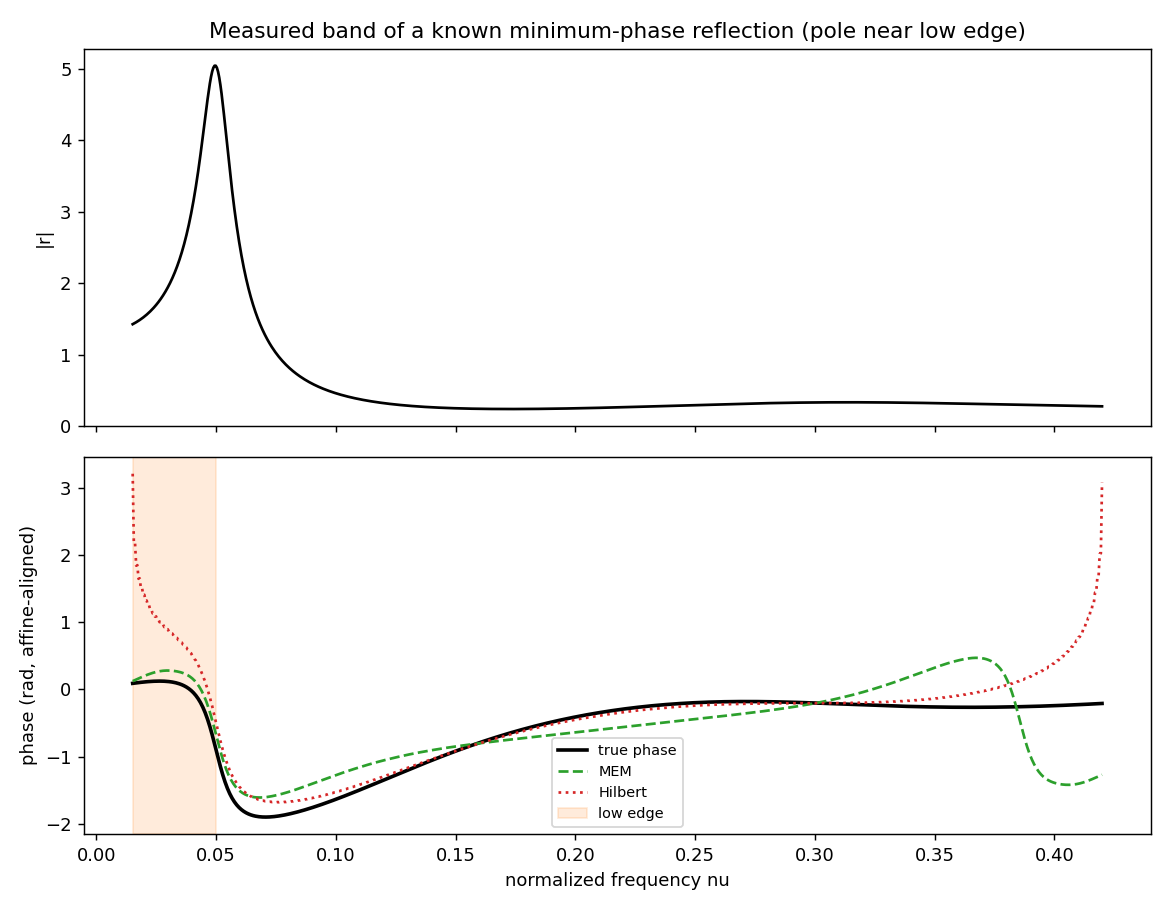
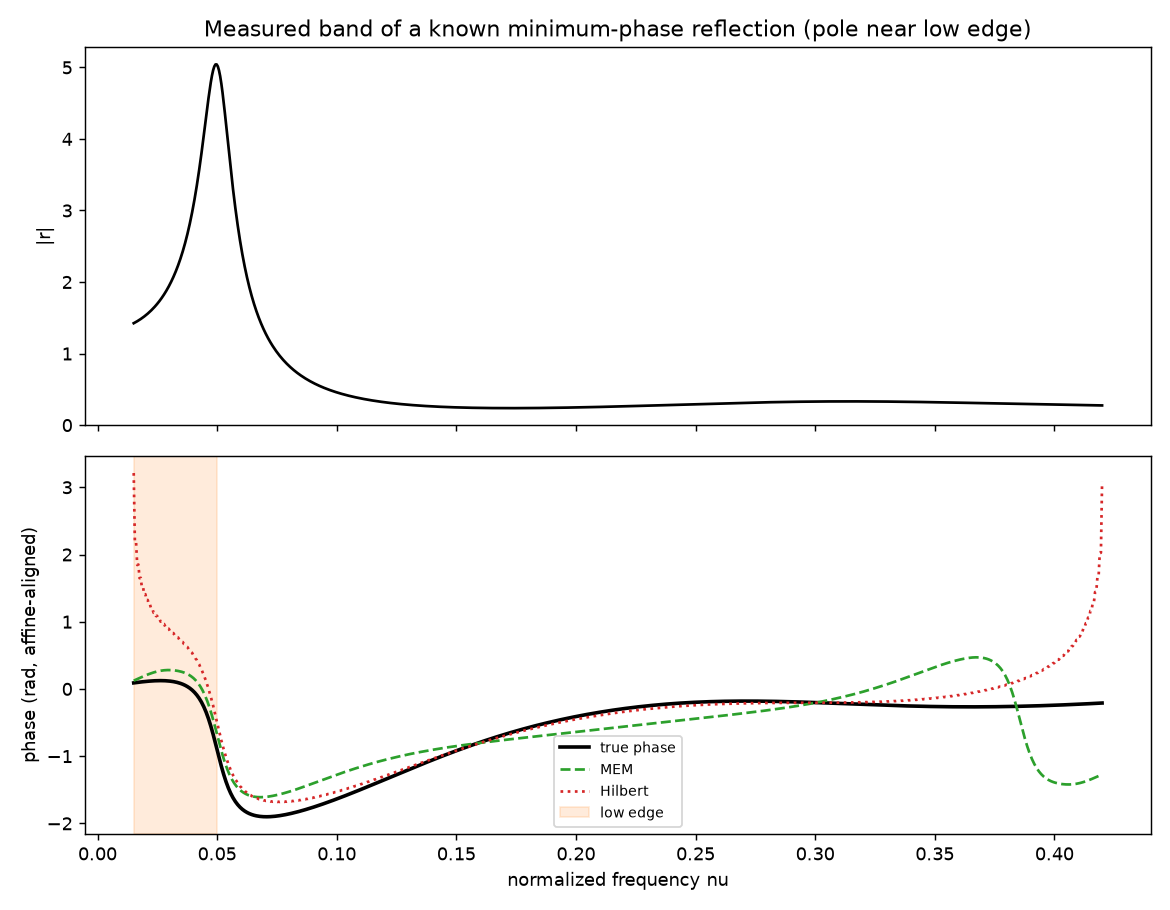
chore: carry over the Windows -> Linux migration state
Uncommitted working-tree changes predating this session, committed so they stop
riding along untracked:

- .gitignore: `thz_core/` -> `thz_core`. The trailing slash matches directories
  only, so it did not ignore the symlink that now points at the sibling thz-core
  checkout. Without this the symlink shows up as an untracked file.
- TODO.md: the write-up of the thz-core recovery (2460 insertions over 23 files
  found in the gitignored nested working tree on the Windows machine).
- requirements.txt: reconstructed by AST-scanning the imports; the repo had none.
- run_me_reflection_single.py: data_dir repointed at the 2026-08-21 CNT session.
- a regenerated MEM phase validation figure.

Claude-Session: https://claude.ai/code/session_01GHdY6X8Khyq53xsqL6x4uA

diff --git a/run_me_reflection_single.py b/run_me_reflection_single.py
@@ -30,7 +30,7 @@ data_dir = r'C:\Users\Samuel\Data\THz\Sam\reflection_testing\2026-06-25_misalign
 data_dir = r'C:\Users\Samuel\Data\THz\Sam\reflection_testing\2026-06-24_refl_testing\cone_tests'
 data_dir = r'C:\Users\Samuel\Data\THz\diagnostics\2026-06-30_ref_testing'
 data_dir = r'C:\Users\Samuel\Data\THz\Sam\2026-07-1_CNT\export'
-data_dir = r'C:\Users\Samuel\Data\THz\Sam\2026-07-03_silicon\export'
+data_dir = r'C:\Users\Samuel\Data\THz\Sam\2026-08-21_CNT-paper-doped_3'
 
 
 # ── Configuration ───────────────────────────────────────

diff --git a/TODO.md b/TODO.md
@@ -1,5 +1,56 @@
 # TODO
 
+## Migration (2026-08-24, Windows → Linux workstation) — RESOLVED
+
+- [x] **Recover the missing thz-core functions.** `thz_analysis` called 14
+  symbols absent from the `thz-core` checkout, leaving the suite at
+  **128 passed / 32 failed**. Found and merged the same day
+  (thz-core `ed8626b`, merging `recover/nested-thz-core-2026-08`).
+
+  **Where it was:** the old Windows machine kept the live thz_core working tree
+  nested at `matchbook\thz\thz_core\`, which was listed in thz-analysis's
+  `.gitignore`. So the code was invisible to the repo that contained it, and
+  had never been committed to the repo it belonged to. It was not lost — just
+  in a directory that no `git status` anywhere would ever mention.
+
+  **What came back:** 2460 insertions over 23 files — new `window.py` (319) and
+  `reflection_gap.py` (188); `transfer.py` +271 (`self_referenced_transfer`,
+  `remove_phase_offset`); `invert.py` +208 (incl. the
+  `config['invert']['min_one_plus_r']` singularity floor); `invert_grid.py`,
+  `kramers_kronig.py`, `multilayer.py`, `fit_gui.py`, `fitting/`; and tests
+  `test_window.py`, `test_remove_phase_offset.py`, `test_invert_grid.py`,
+  `test_multilayer.py`.
+
+  **Verification:** thz-core 166 → **200 passed**; thz_analysis 128/32 →
+  **160 passed, 0 failed**. No source was patched to make anything pass — the
+  32 failures resolved purely by the functions existing. The recovery commit
+  deletes no file develop had, and every test-file change is additive.
+
+  **Two cleanups it needed** (thz-core `9b36570`): the capture was made with
+  `git add -A` on a live tree, so it swept in 33 tracked `.pyc` files, and it
+  resurrected `tests/test_segment_and_fresnel.py` — deliberately deleted in
+  `ecab2d9` when it was split into `test_fresnel.py`. That file imports
+  `segment_waveform`, which no longer exists, and broke collection entirely.
+
+  **The lesson worth keeping:** a gitignored directory that is itself a working
+  copy is invisible to every safety net git provides. Nothing warns you, and
+  `git status` in the parent repo stays clean while months of work sit
+  uncommitted. On this machine the equivalent path is a *symlink*
+  (`thz_analysis/thz_core -> ../thz-core`), so there is exactly one checkout and
+  the same trap cannot recur — but the general rule stands: never let a
+  gitignored path hold the only copy of anything.
+
+## Testing hygiene
+
+- [ ] **Tests must not mutate tracked repo artifacts.** Running `pytest tests`
+  rewrites the tracked file
+  `explorations/air_gap_cnt_reflection/mem_phase_validation.png` (78 KB → 89 KB),
+  so a clean checkout shows a dirty working tree after any test run, and the
+  diff is unreviewable binary noise. Point the figure-writing test at a
+  `tmp_path` fixture (or gate it behind an explicit `--write-figures` flag) and
+  keep the committed PNG as a reference the test compares against rather than
+  overwrites.
+
 ## dataset_core — two-phase pipeline
 
 - [ ] **Persist the sub-sample alignment residual across segmentation.**
